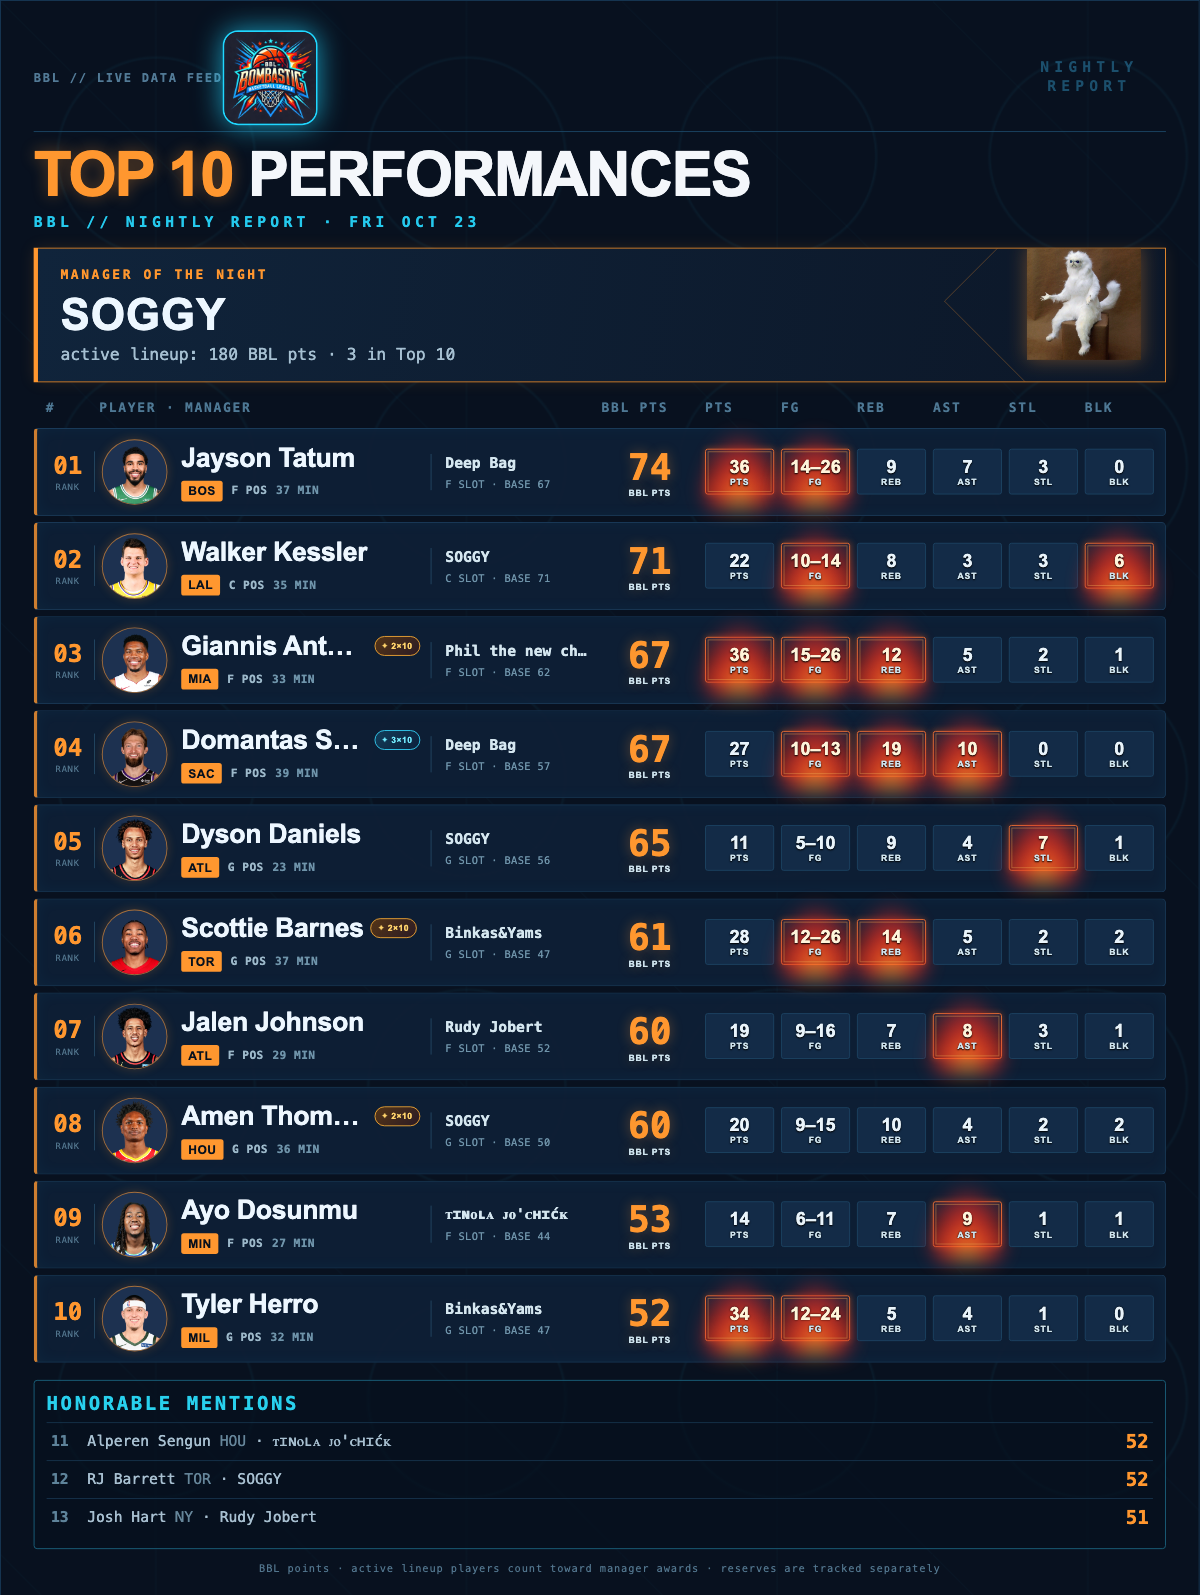
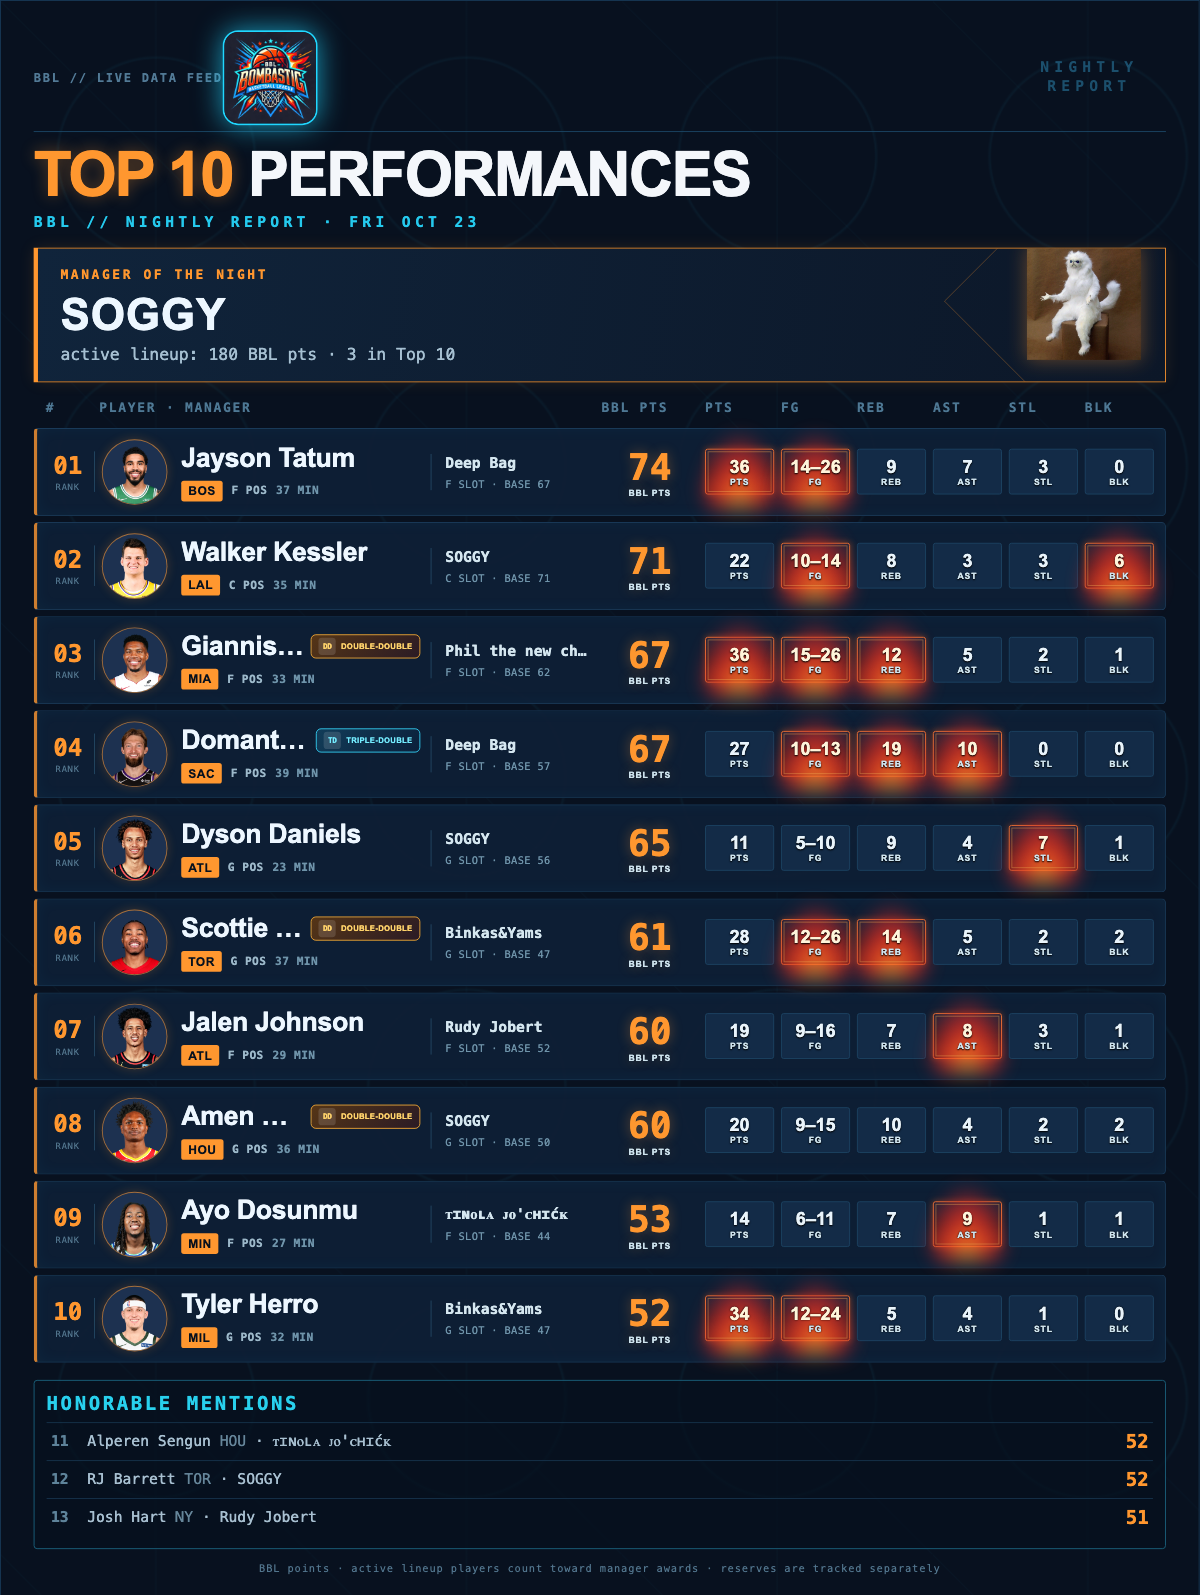
Replace ambiguous badges with named award badges

Changed region(s): [[0.2467, 0.3994, 0.3392, 0.4915], [0.2158, 0.553, 0.3392, 0.6144], [0.2158, 0.6759, 0.3392, 0.7066]]

diff --git a/bbl/social_cards.py b/bbl/social_cards.py
@@ -116,8 +116,8 @@ def card_html(title, accent, subtitle, award_label, award_name, award_summary, r
                 badges.append("CARDIO KING")
             if p["fga"] >= 8 and p["fgm"] / p["fga"] <= 0.30:
                 badges.append("BRICK CITY")
-        badge_short = {"TRIPLE-DOUBLE": ("3×10", "triple"), "DOUBLE-DOUBLE": ("2×10", "double"), "CARDIO KING": ("CARDIO", "cardio"), "BRICK CITY": ("BRICKS", "brick")}
-        badge_html = "".join(f'<span class="badge badge-{badge_short.get(badge, (badge, "default"))[1]}" title="{badge}"><i>✦</i>{badge_short.get(badge, (badge, "default"))[0]}</span>' for badge in badges)
+        badge_mark = {"TRIPLE-DOUBLE": ("TD", "triple"), "DOUBLE-DOUBLE": ("DD", "double"), "CARDIO KING": ("CK", "cardio"), "BRICK CITY": ("BC", "brick")}
+        badge_html = "".join(f'<span class="badge badge-{badge_mark.get(badge, ("★", "default"))[1]}" title="{badge}"><i>{badge_mark.get(badge, ("★", "default"))[0]}</i><strong>{badge}</strong></span>' for badge in badges)
         row_parts.append(
             f'<div class="row"><div class="rank"><span>{i:02}</span><small>RANK</small></div><div class="who">{photo}'
             f'<div class="identity"><div class="name-line"><b>{html.escape(p["n"])}</b>{badge_html}</div>'
@@ -149,7 +149,7 @@ h1{{font-size:62px;line-height:.9;margin:0;color:#f4f7fb;letter-spacing:-2px;tex
 .label{{font:700 14px monospace;letter-spacing:3px;color:{accent};text-transform:uppercase}}.award h2{{font-size:42px;letter-spacing:1px;margin:7px 0 3px}}.award p{{font:17px monospace;margin:0;color:#a6c0d2}}
 .cols,.row{{display:grid;grid-template-columns:54px 1fr 112px {stat_columns};gap:8px;align-items:center}}.cols{{padding:0 14px 6px;color:#4e7894;font:700 13px monospace;letter-spacing:2px;text-transform:uppercase}}
 .row{{background:rgba(14,31,53,.94);border:1px solid #1b3c5b;border-left:4px solid {accent}cc;border-radius:5px;padding:9px 12px;margin:6px 0;box-shadow:inset 0 0 18px rgba(30,170,230,.05)}}.row:hover{{border-color:{accent}}}.rank{{font:700 24px monospace;color:{accent};text-align:center;border-right:1px solid #244965;padding-right:8px}}.rank small{{display:block;font:9px monospace;color:#52758d;letter-spacing:1px;margin-top:3px}}
- .who{{display:grid;grid-template-columns:70px minmax(0,1fr) 190px;gap:12px;align-items:center;min-width:0}}.who b{{display:block;font-size:24px;letter-spacing:-.4px;white-space:nowrap;overflow:hidden;text-overflow:ellipsis}}.headshot{{width:66px;height:66px;object-fit:cover;border-radius:50%;background:#1d3150;border:1px solid {accent}99;box-shadow:0 0 12px {accent}33}}.headshot.placeholder{{background:linear-gradient(135deg,#162c47,#0a1627)}}.name-line{{display:flex;align-items:center;gap:8px;min-width:0}}.name-line b{{min-width:0}}.player-meta{{display:flex;align-items:center;gap:8px;margin-top:6px;white-space:nowrap}}.who .team{{display:inline-block;color:#07111e;background:{accent};border-radius:3px;padding:3px 7px;font:800 12px Arial,sans-serif;letter-spacing:.6px}}.position,.minutes{{color:#9db9ca;font:700 12px monospace;letter-spacing:.5px}}.minutes{{color:#6f94aa}}.badge{{display:inline-flex;align-items:center;gap:4px;flex:0 0 auto;padding:4px 8px;border:1px solid;border-radius:999px;font:900 10px Arial,sans-serif;letter-spacing:.5px;white-space:nowrap;box-shadow:inset 0 0 8px #ffffff18,0 0 8px currentColor44}}.badge i{{font-style:normal;font-size:8px}}.badge-triple{{color:#74ecff;border-color:#35d8ff;background:linear-gradient(135deg,#123d59,#0b203b)}}.badge-double{{color:#ffd36b;border-color:#ffad32;background:linear-gradient(135deg,#553516,#2b1b25)}}.badge-cardio{{color:#d8b8ff;border-color:#b477ff;background:linear-gradient(135deg,#3b245b,#211b3b)}}.badge-brick{{color:#aef5ff;border-color:#5ddcff;background:linear-gradient(135deg,#164b63,#12253f)}}.details{{min-width:0;border-left:1px solid #244965;padding-left:14px}}.details small{{display:block;color:#d5e7f0;font:700 15px monospace;white-space:nowrap;overflow:hidden;text-overflow:ellipsis}}.details em{{display:block;color:#6f94aa;font:11px monospace;font-style:normal;margin-top:7px;letter-spacing:.4px;white-space:nowrap}}
+ .who{{display:grid;grid-template-columns:70px minmax(0,1fr) 190px;gap:12px;align-items:center;min-width:0}}.who b{{display:block;font-size:24px;letter-spacing:-.4px;white-space:nowrap;overflow:hidden;text-overflow:ellipsis}}.headshot{{width:66px;height:66px;object-fit:cover;border-radius:50%;background:#1d3150;border:1px solid {accent}99;box-shadow:0 0 12px {accent}33}}.headshot.placeholder{{background:linear-gradient(135deg,#162c47,#0a1627)}}.name-line{{display:flex;align-items:center;gap:8px;min-width:0}}.name-line b{{min-width:0}}.player-meta{{display:flex;align-items:center;gap:8px;margin-top:6px;white-space:nowrap}}.who .team{{display:inline-block;color:#07111e;background:{accent};border-radius:3px;padding:3px 7px;font:800 12px Arial,sans-serif;letter-spacing:.6px}}.position,.minutes{{color:#9db9ca;font:700 12px monospace;letter-spacing:.5px}}.minutes{{color:#6f94aa}}.badge{{display:inline-flex;align-items:center;gap:6px;flex:0 0 auto;height:28px;padding:3px 8px 3px 4px;border:1px solid;border-radius:6px;font:900 9px Arial,sans-serif;letter-spacing:.3px;white-space:nowrap;box-shadow:inset 0 0 8px #ffffff18,0 0 8px currentColor44}}.badge i{{display:grid;place-items:center;width:20px;height:20px;border-radius:4px;background:#ffffff22;font:900 9px monospace;font-style:normal;letter-spacing:-.5px}}.badge strong{{font:900 9px Arial,sans-serif}}.badge-triple{{color:#74ecff;border-color:#35d8ff;background:linear-gradient(135deg,#123d59,#0b203b)}}.badge-double{{color:#ffd36b;border-color:#ffad32;background:linear-gradient(135deg,#553516,#2b1b25)}}.badge-cardio{{color:#d8b8ff;border-color:#b477ff;background:linear-gradient(135deg,#3b245b,#211b3b)}}.badge-brick{{color:#aef5ff;border-color:#5ddcff;background:linear-gradient(135deg,#164b63,#12253f)}}.details{{min-width:0;border-left:1px solid #244965;padding-left:14px}}.details small{{display:block;color:#d5e7f0;font:700 15px monospace;white-space:nowrap;overflow:hidden;text-overflow:ellipsis}}.details em{{display:block;color:#6f94aa;font:11px monospace;font-style:normal;margin-top:7px;letter-spacing:.4px;white-space:nowrap}}
 .score{{color:{accent};font:800 31px monospace;text-align:center;text-shadow:0 0 15px {accent}55}}.score small,.stat small{{display:block;font:8px monospace;color:#7394aa;letter-spacing:1px}}.stat{{position:relative;z-index:1;background:#132b47;border:1px solid #1d4564;border-radius:3px;text-align:center;padding:5px 2px;font:700 16px monospace;overflow:visible;isolation:isolate}}.stat.hot{{border:2px solid #ffad32;box-shadow:0 0 5px #ffb000,0 0 15px #ff4b1f99;color:#fff8dd;background:linear-gradient(180deg,#5b2417,#261925)}}.stat.hot:before{{content:"";position:absolute;z-index:-1;left:-8px;right:-8px;top:-15px;bottom:-9px;background:linear-gradient(150deg,#ffd45a 0 10%,transparent 11% 22%,#ff7a18 23% 35%,transparent 36% 49%,#ff3219 50% 64%,transparent 65% 78%,#ff9b20 79% 90%,transparent 91%);clip-path:polygon(0 100%,3% 54%,16% 68%,18% 20%,29% 52%,42% 0,53% 49%,66% 14%,75% 53%,89% 5%,94% 59%,100% 35%,100% 100%);filter:drop-shadow(0 0 8px #ff4b1f);pointer-events:none}}.stat.hot:after{{content:"";position:absolute;inset:2px;border:1px solid #ffd36b99;background:linear-gradient(180deg,transparent,#ff5a1a33);pointer-events:none}}.stat.cold{{border:2px solid #b9fbff;box-shadow:0 0 6px #b9fbff,0 0 18px #28cfff99;color:#edffff;background:linear-gradient(135deg,#d8ffff 0 4%,#3caed2 6% 12%,#153b5b 13% 82%,#0a223b 83%)}}.stat.cold:before{{content:"";position:absolute;z-index:-1;inset:-7px;background:linear-gradient(135deg,#dfffff,#55e9ff 20%,#135b88 48%,#a9f8ff 72%,#1b719c);clip-path:polygon(0 8%,18% 15%,28% 0,43% 13%,59% 3%,74% 17%,100% 7%,88% 31%,100% 50%,87% 66%,100% 93%,76% 84%,63% 100%,48% 87%,28% 100%,19% 85%,0 94%,11% 69%,0 51%,12% 32%);filter:drop-shadow(0 0 7px #46eaff);pointer-events:none}}.stat.cold:after{{content:"";position:absolute;inset:2px;background:linear-gradient(125deg,transparent 27%,#e7ffff99 28% 31%,transparent 32% 56%,#bdfaff77 57% 60%,transparent 61%);pointer-events:none}}.stat span{{position:relative;z-index:1}}.stat small{{position:relative;z-index:1}}.stat:not(.hot):not(.cold) span{{color:#e9f4fb}}.stat:not(.hot):not(.cold){{color:#fff}}
 .section{{border:1px solid #1c6682;border-radius:4px;margin-top:18px;padding:13px;background:rgba(5,17,31,.72)}}.section h3{{color:#28d0ed;font:700 19px monospace;letter-spacing:3px;margin:0 0 8px}}.mention{{display:grid;grid-template-columns:42px 1fr 70px;align-items:center;border-top:1px solid #17354e;padding:8px 4px;color:#a8c0d1;font:15px monospace}}.mention b{{color:#5e839a}}.mention i{{font-style:normal;color:#66869a}}.mention strong{{color:{accent};text-align:right;font:700 20px monospace}}
  footer{{margin-top:18px;text-align:center;color:#52758d;font:11px monospace;letter-spacing:1px}}
